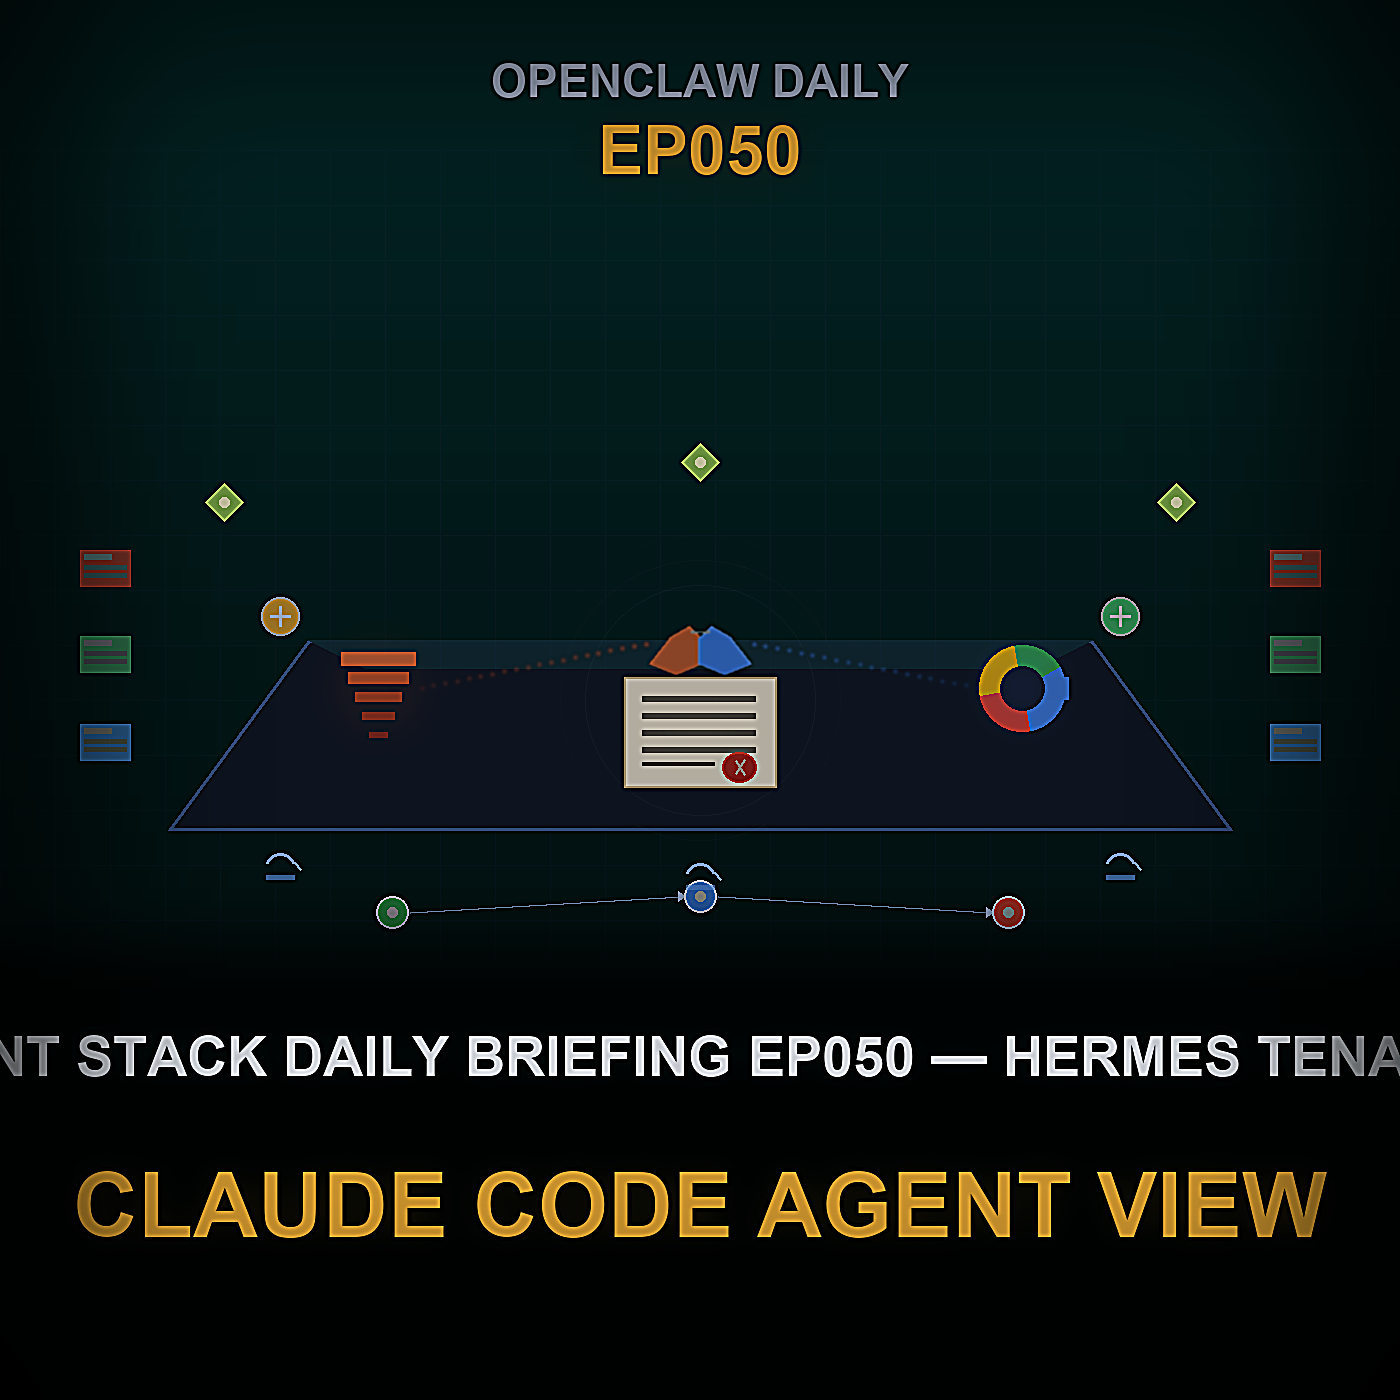
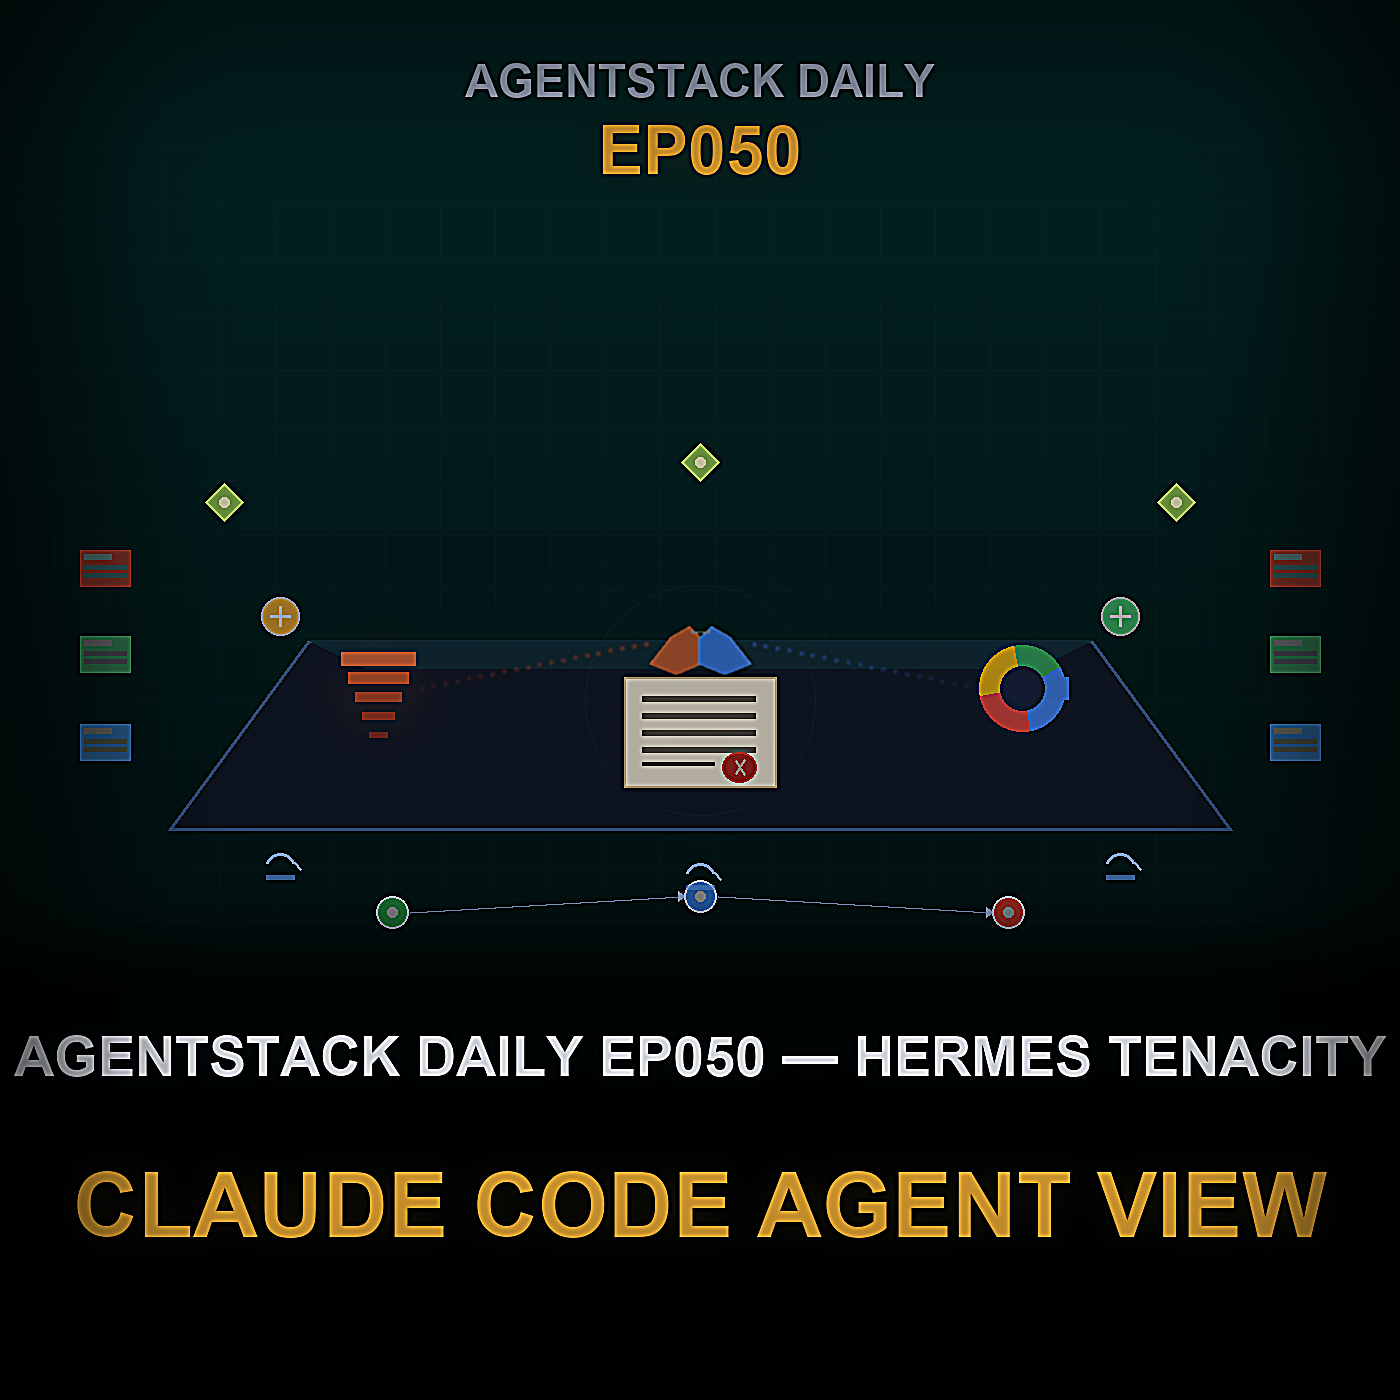
EP50: pre-greenlight audio + cover

Changed region(s): [[0.0, 0.7371, 1.0, 0.7679], [0.3379, 0.0307, 0.6757, 0.0921]]

diff --git a/index.html b/index.html
@@ -3,10 +3,10 @@
 <head>
   <meta charset="utf-8">
   <meta name="viewport" content="width=device-width, initial-scale=1">
-  <title>Agent Stack Daily Briefing Audio</title>
+  <title>AgentStack Daily Audio</title>
 </head>
 <body>
-  <h1>Agent Stack Daily Briefing Audio</h1>
+  <h1>AgentStack Daily Audio</h1>
   <p>Latest: <a href="audio/episode_050.mp3">EP050 audio</a> | <a href="episode_050_cover.png">cover</a></p>
   <ul>
     <li>EP050: <a href="audio/episode_050.mp3">audio</a> | <a href="episode_050_cover.png">cover</a></li>